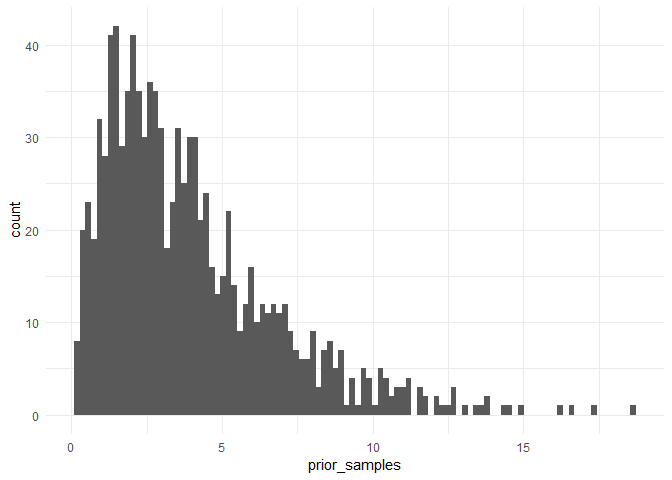
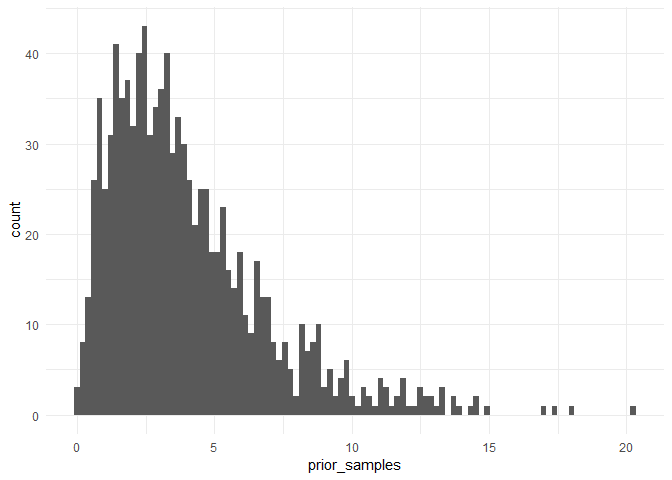
more lab1c, minus the trace plot

diff --git a/01/01c_elevator_repair.md b/01/01c_elevator_repair.md
@@ -1,9 +1,6 @@
 Week 1 lab: Elevator Repair
 ================
 
-<span style="color:red">Red things are python that still need to be
-converted to R</span>
-
 ## Goals
 
   - Build a simple model based on synthetic count data: number of
@@ -76,14 +73,13 @@ Likelihood:
 Poisson(\\lambda)](https://latex.codecogs.com/png.latex?y%20%5Csim%20Poisson%28%5Clambda%29
 "y \\sim Poisson(\\lambda)")
 
-**Note:** <span style="color:red">rgamma uses (shape, scale) to
-parameterize Gamma distribution; stan uses (alpha, beta) where
-alpha=shape and beta=1/scale.</span> Example samples from a Gamma
-distribution:
+**Note:** rgamma uses (shape, scale) to parameterize Gamma distribution;
+stan uses (alpha, beta) where alpha=shape and beta=1/scale. Example
+samples from a Gamma distribution:
 
 ``` r
 a <- 2
-b <- 2
+b <- 2 
 prior_samples <- rgamma(n=1000,shape=a,scale=b)
 
 # plot the prior samples
@@ -92,20 +88,166 @@ ggplot() + geom_histogram(aes(x = prior_samples), bins = 100)
 
 ![](01c_elevator_repair_files/figure-gfm/plot-prior-1.png)<!-- -->
 
+### Drawing samples from a prior
+
+If we have a likelihood
+![P(x|\\theta)](https://latex.codecogs.com/png.latex?P%28x%7C%5Ctheta%29
+"P(x|\\theta)") and a prior
+![P(\\theta)](https://latex.codecogs.com/png.latex?P%28%5Ctheta%29
+"P(\\theta)"), then we can define a prior predictive distribution by
+marginalizing ![\\theta](https://latex.codecogs.com/png.latex?%5Ctheta
+"\\theta") out,
+
+![P(x) = \\int
+P(x|\\theta)P(\\theta)d\\theta](https://latex.codecogs.com/png.latex?P%28x%29%20%3D%20%5Cint%20P%28x%7C%5Ctheta%29P%28%5Ctheta%29d%5Ctheta
+"P(x) = \\int P(x|\\theta)P(\\theta)d\\theta")
+
+which we could then use to sample fake data. This won’t be horribly
+interesting for such a simple model- but as we get to more complicated
+models, it can be a good early-warning system for catching mistakes. If
+the prior really does represent our prior knowledge, then sampling data
+using it should generate data that seems plausible (but broader than the
+distribution of data we know about). If we get data that looks
+implausible (for example, violating a law of physics or spread across
+many orders of magnitude more than the data) then chances are we’ve
+mis-specified our priors. From *Visualization in Bayesian workflow*,
+
+> As with the standard concept of weakly informative priors, it is
+> important that this prior predictive distribution for the data has at
+> least some mass around extreme but plausible data sets. On the other
+> hand, there should be no mass on completely implausible data sets. We
+> recommend assessing how informative the prior distribution on the data
+> is by generating a “flip book” of simulated datasets that can be used
+> to investigate the variability and multivariate structure of the
+> distribution
+
+For a simple model like this it’d be easy to use base R to generate
+prior predictive values- it’s also possible to use `stan` for this;
+let’s walk through the process so we can repeat it when we get to more
+interesting models.
+
+We’ll specify prior hyperparameters as our data (which will let us play
+with them without recompiling the model each time) and use the
+`generated quantities` block to sample parameters and fake data. Note
+that no actual inference is happening within this model\!
+
+``` r
+prior_model_code <- "
+data {
+    real alpha;
+    real beta;
+}
+model {
+}
+generated quantities {
+    real lambda;
+    int Y;
+    lambda = gamma_rng(alpha, beta);
+    Y = poisson_rng(lambda);
+}
+"
+```
+
+``` r
+prior_model <- stan_model(model_code=prior_model_code)
+```
+
+**Note:** Here we are using Stan to generate our priors, which uses
+![\\alpha](https://latex.codecogs.com/png.latex?%5Calpha "\\alpha") and
+![\\beta](https://latex.codecogs.com/png.latex?%5Cbeta "\\beta").
+
+``` r
+data <- list(
+    alpha = 2.,
+    beta = 0.5
+    )
+```
+
+When we generate prior samples, we need to run `stan` with the keyword
+argument `algorithm='Fixed_param'`. prior\_samples =
+prior\_model.sampling(data=data, iter=10000, chains=1,
+algorithm=‘Fixed\_param’)
+
+``` r
+prior_samples <- sampling(object=prior_model, data=data, iter=10000,chains=1, algorithm='Fixed_param')
+```
+
+    ## 
+    ## SAMPLING FOR MODEL '54bfaee84b9bb3981464f3a4f172cd73' NOW (CHAIN 1).
+    ## Iteration:    1 / 10000 [  0%]  (Sampling)
+    ## Iteration: 1000 / 10000 [ 10%]  (Sampling)
+    ## Iteration: 2000 / 10000 [ 20%]  (Sampling)
+    ## Iteration: 3000 / 10000 [ 30%]  (Sampling)
+    ## Iteration: 4000 / 10000 [ 40%]  (Sampling)
+    ## Iteration: 5000 / 10000 [ 50%]  (Sampling)
+    ## Iteration: 6000 / 10000 [ 60%]  (Sampling)
+    ## Iteration: 7000 / 10000 [ 70%]  (Sampling)
+    ## Iteration: 8000 / 10000 [ 80%]  (Sampling)
+    ## Iteration: 9000 / 10000 [ 90%]  (Sampling)
+    ## Iteration: 10000 / 10000 [100%]  (Sampling)
+    ## 
+    ##  Elapsed Time: 0 seconds (Warm-up)
+    ##                0.016 seconds (Sampling)
+    ##                0.016 seconds (Total)
+
+``` r
+prior_lambda <- tibble('lambda'=extract(prior_samples)$lam)
+ggplot(prior_lambda, aes(x=lambda, y=stat(density))) + geom_histogram(bins=50) + xlab(expression(lambda)) + ylab(expression(p(lambda)))
+```
+
+![](01c_elevator_repair_files/figure-gfm/plot-prior-lambda-1.png)<!-- -->
+
+``` r
+prior_Y <- tibble('Y'=extract(prior_samples)$Y)
+ggplot(prior_Y, aes(x=Y, y=stat(density))) + geom_histogram(binwidth=1) + xlab('elevator malfunctions per year') + 
+    ylab('prior predictive distribution')
+```
+
+![](01c_elevator_repair_files/figure-gfm/plot-prior-y-1.png)<!-- -->
+
 Now define the stan model:
 
 ``` r
 model_code <- "
 data {
+    // the data block defines the data structures where our data will go
+    // N is the number of observations- an integer with a lower-bound of 0
     int<lower=0> N;
+    
+    // y is an array of the actual observations (integers with value 0 or 1), of length N
     int<lower=0> y[N];
 }
 parameters {
+    // the parameters block defines the variables we're doing inference on- in
+    // this case, just lambda, the poisson 'intensity' parameter. 
+    
+    // for a poisson distribution, this parameter is both the expected mean
+    // and the standard deviation
     real<lower=0> lam;
 }
 model {
-    lam ~ gamma(2,0.5); // SPECIFY YOUR PRIOR HYPERPARAMETERS HERE
-    y ~ poisson(lam);
+    // the model block ties the room together.
+    
+    // connect the lambda parameter to a prior distribution,
+    lam ~ gamma(2,0.5); // specify prior hyperparameters here
+    
+    // choose a likelihood to connect observations to the lambda parameter
+    for (n in 1:N)
+        y[n] ~ poisson(lam);
+}
+generated quantities {
+    // we can also have stan generate anything else we want- we'll use this a
+    // lot for posterior predictive checks. code in this block is evaluated 
+    // once per sample.
+    
+    // so every time stan draws a value of lambda, let's also have it draw
+    // a simulated observation from that value
+    vector[N] y_sim;
+    
+    // generate posterior predictive samples
+    for(i in 1:N) {
+        y_sim[i] = poisson_rng(lam);
+    }
 }
 "
 ```
@@ -159,7 +301,7 @@ posterior for ![\\lambda](https://latex.codecogs.com/png.latex?%5Clambda
 
 ``` r
 # creating a dataframe to nicely use ggplot
-prior_results <- tibble(sample = "prior", value = prior_samples)
+prior_results <- tibble(sample = "prior", value = prior_lambda$lambda)
 post_results <- tibble(sample = "posterior", value = posterior_samples)
 prior_post <- bind_rows(post_results, prior_results)
 # plot a histogram
@@ -182,7 +324,7 @@ estimate.
 mean(posterior_samples)
 ```
 
-    ## [1] 3.100932
+    ## [1] 3.094464
 
 We can calculate the 5% and 95% quantiles with the `quantile()`
 function:
@@ -192,7 +334,7 @@ quantile(posterior_samples, c(0.05, 0.95))
 ```
 
     ##       5%      95% 
-    ## 1.996403 4.437594
+    ## 1.974136 4.427865
 
 ### Challenge: use your model to make an actual decision
 
@@ -308,16 +450,16 @@ min_cost
 ```
 
     ## $you
-    ## [1] 4055.9
+    ## [1] 4056.425
     ## 
     ## $friend1
-    ## [1] 5114.175
+    ## [1] 5100.6
     ## 
     ## $friend2
-    ## [1] 4070.075
+    ## [1] 4050.575
     ## 
     ## $friend3
-    ## [1] 2968.75
+    ## [1] 2943.85
 
 ``` r
 total_failures <- apply(failures, 1, sum)
@@ -344,11 +486,11 @@ shared_min_cost <- min(expected_costs_s)
 shared_min_cost
 ```
 
-    ## [1] 13209.92
+    ## [1] 13208.25
 
 ``` r
 # Expected cost for independent service contracts
 sum(unlist(min_cost))
 ```
 
-    ## [1] 16208.9
+    ## [1] 16151.45
